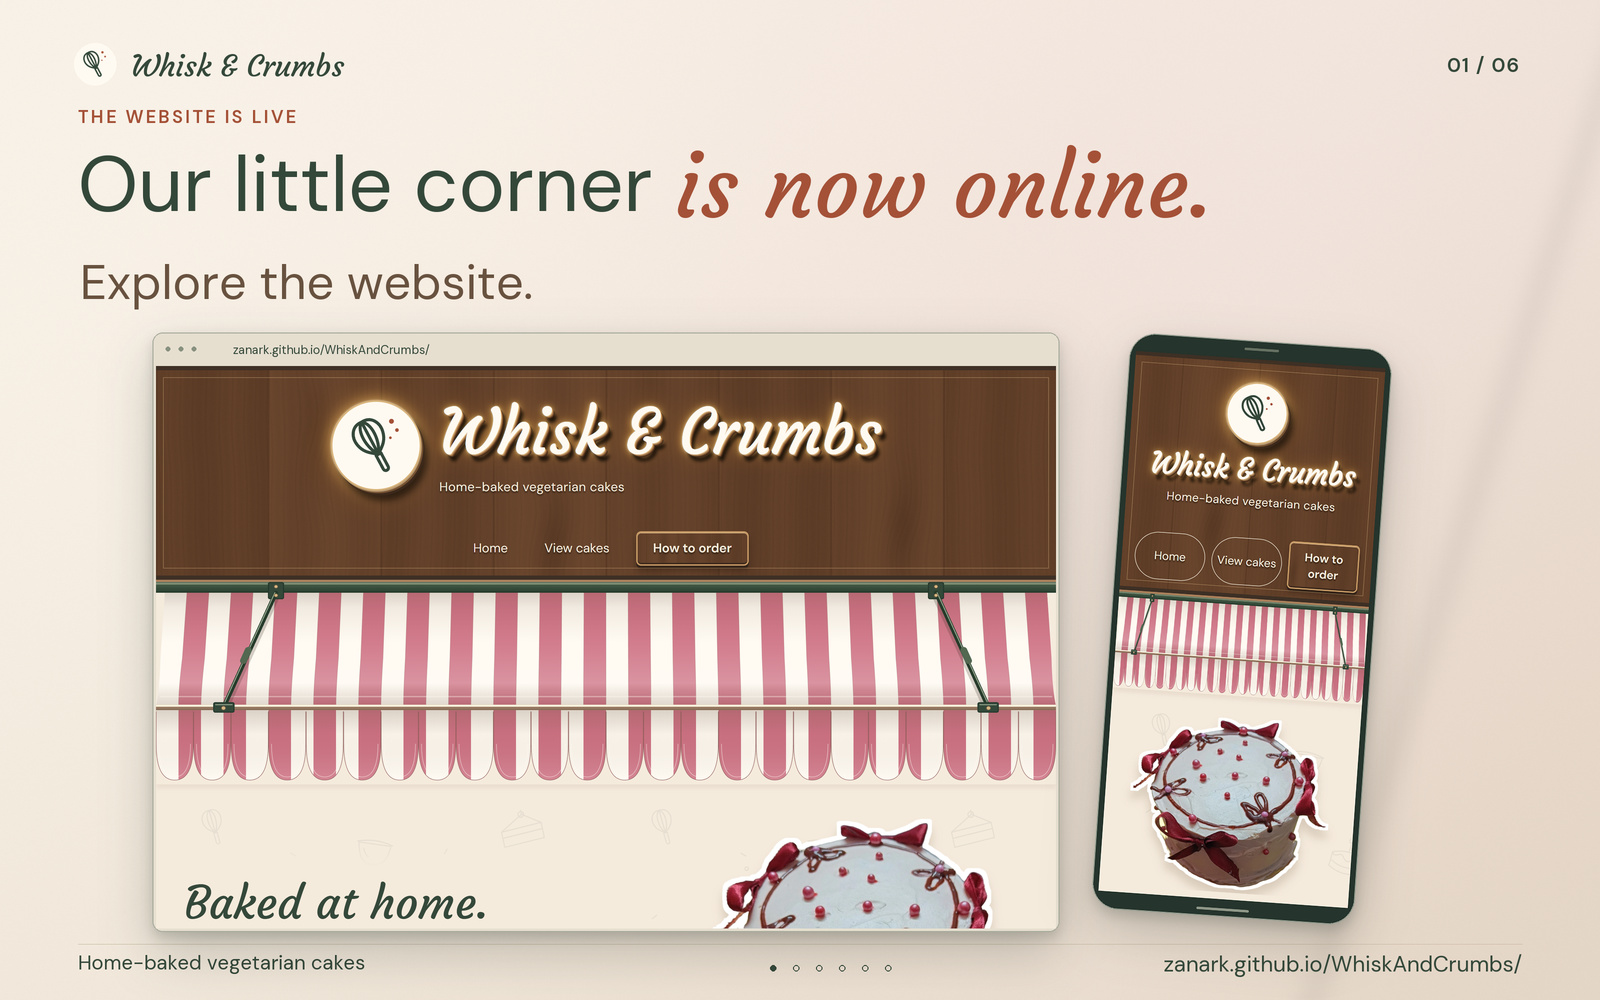
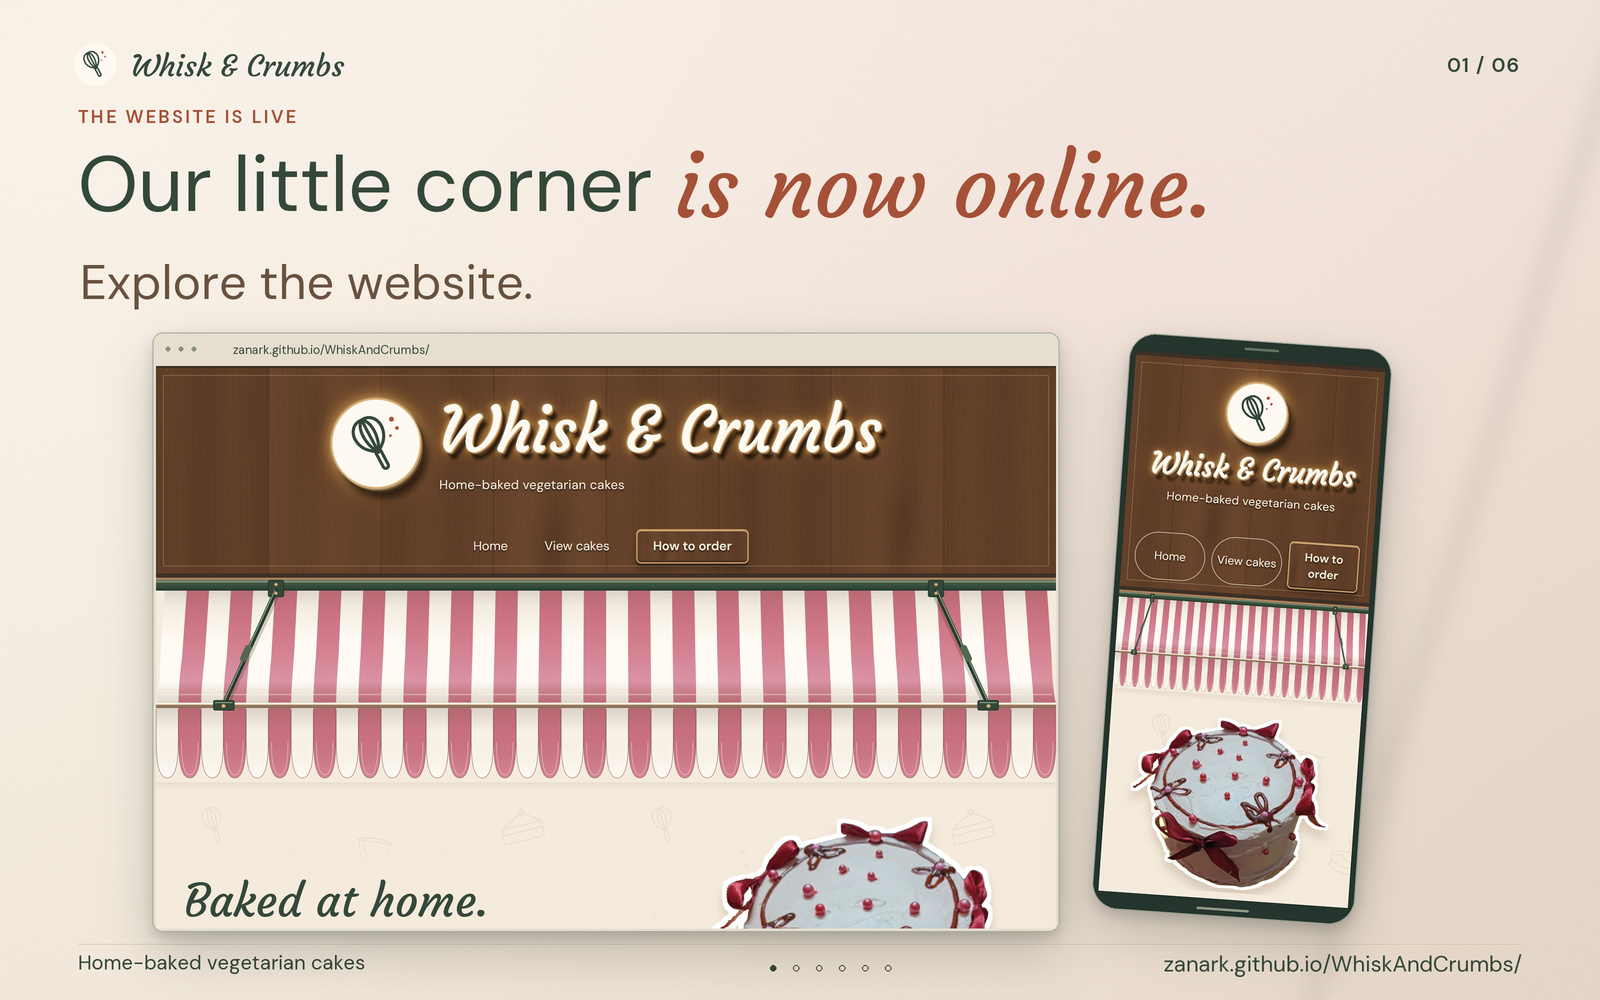
Align each awning scallop with its matching stripe
Use one derived 30px width for forty colour stripes, curved flaps and hem stitching. Preserve the canopy depth, supports, camera and cloth behavior; refresh only the affected showcase images and public descriptions.

Copilot-Session: 065222f9-e445-4b98-a549-e6948580c174

diff --git a/site/index.html b/site/index.html
@@ -22,32 +22,32 @@
   <link rel="icon" href="assets/favicon.svg" type="image/svg+xml" sizes="any">
   <link rel="apple-touch-icon" href="assets/apple-touch-icon.png" sizes="180x180">
   <link rel="preload" href="assets/fonts/courgette-regular.ttf" as="font" type="font/ttf" crossorigin>
-  <link rel="stylesheet" href="styles.css?v=0fe20a62bf44">
-  <link rel="stylesheet" href="entrance-shop.css?v=0fe20a62bf44">
-  <link rel="stylesheet" href="cozy-bakery.css?v=0fe20a62bf44">
-  <link rel="stylesheet" href="readability.css?v=0fe20a62bf44">
-  <link rel="modulepreload" href="entrance.mjs?v=0fe20a62bf44">
-  <link rel="modulepreload" href="bell.mjs?v=0fe20a62bf44">
-  <link rel="modulepreload" href="notebooks.mjs?v=0fe20a62bf44">
-  <script type="module" src="main.mjs?v=0fe20a62bf44"></script>
+  <link rel="stylesheet" href="styles.css?v=5f9daa8460ce">
+  <link rel="stylesheet" href="entrance-shop.css?v=5f9daa8460ce">
+  <link rel="stylesheet" href="cozy-bakery.css?v=5f9daa8460ce">
+  <link rel="stylesheet" href="readability.css?v=5f9daa8460ce">
+  <link rel="modulepreload" href="entrance.mjs?v=5f9daa8460ce">
+  <link rel="modulepreload" href="bell.mjs?v=5f9daa8460ce">
+  <link rel="modulepreload" href="notebooks.mjs?v=5f9daa8460ce">
+  <script type="module" src="main.mjs?v=5f9daa8460ce"></script>
 </head>
 <body>
   <a class="skip-link" href="#main">Skip to cakes and ordering</a>
   <div id="bakery-entrance" class="bakery-entrance" data-state="pending" data-audio="waiting">
     <div class="entrance-art" aria-hidden="true">
       <div class="entrance-backdrop"></div>
-      <div class="entrance-shop" style="--facade-plaster:url('assets/bakery-facade-plaster.webp?v=0fe20a62bf44');--sign-wood:url('assets/bakery-sign-wood.webp?v=0fe20a62bf44')">
+      <div class="entrance-shop" style="--facade-plaster:url('assets/bakery-facade-plaster.webp?v=5f9daa8460ce');--sign-wood:url('assets/bakery-sign-wood.webp?v=5f9daa8460ce')">
         <div class="entrance-masonry"></div>
         <picture class="entrance-upper-storey">
-          <source media="(max-width: 600px)" srcset="assets/bakery-facade-upper-mobile.svg?v=0fe20a62bf44">
-          <img src="assets/bakery-facade-upper.svg?v=0fe20a62bf44" width="1200" height="360" alt="" decoding="async">
+          <source media="(max-width: 600px)" srcset="assets/bakery-facade-upper-mobile.svg?v=5f9daa8460ce">
+          <img src="assets/bakery-facade-upper.svg?v=5f9daa8460ce" width="1200" height="360" alt="" decoding="async">
         </picture>
         <div class="entrance-sign" data-brand="Whisk &amp; Crumbs">
           <img class="entrance-sign-mark" src="assets/whisk-and-crumbs-mark.svg" width="128" height="128" alt="">
           <span class="entrance-sign-copy"><span class="entrance-wordmark">Whisk &amp; Crumbs</span><span class="entrance-descriptor">Home-baked vegetarian cakes</span></span>
         </div>
         <span class="entrance-cornice"></span>
-        <div class="entrance-awning"><img src="assets/bakery-awning.svg?v=0fe20a62bf44" width="1200" height="300" alt="" decoding="async"><span class="awning-supports" style="background-image:url('assets/bakery-awning-supports.svg?v=0fe20a62bf44')"></span></div>
+        <div class="entrance-awning"><img src="assets/bakery-awning.svg?v=5f9daa8460ce" width="1200" height="300" alt="" decoding="async"><span class="awning-supports" style="background-image:url('assets/bakery-awning-supports.svg?v=5f9daa8460ce')"></span></div>
         <span class="entrance-pier entrance-pier-left"></span><span class="entrance-pier entrance-pier-right"></span>
         <div class="entrance-doorway">
           <div class="entrance-bell-mount"></div>
@@ -61,9 +61,9 @@
           <div class="entrance-doorframe">
             <div class="entrance-room">
               <picture class="entrance-room-poster">
-                <source media="(max-aspect-ratio: 4/5)" srcset="assets/bakery-interior-portrait.webp?v=0fe20a62bf44">
-                <source media="(max-height: 600px)" srcset="assets/bakery-interior-short.webp?v=0fe20a62bf44">
-                <img src="assets/bakery-interior-wide.webp?v=0fe20a62bf44" width="1600" height="1000" alt="" decoding="async">
+                <source media="(max-aspect-ratio: 4/5)" srcset="assets/bakery-interior-portrait.webp?v=5f9daa8460ce">
+                <source media="(max-height: 600px)" srcset="assets/bakery-interior-short.webp?v=5f9daa8460ce">
+                <img src="assets/bakery-interior-wide.webp?v=5f9daa8460ce" width="1600" height="1000" alt="" decoding="async">
               </picture>
             </div>
             <div class="entrance-fixed-bay entrance-fixed-bay-left"><span class="entrance-display-glass"></span><span class="entrance-bay-panel"></span></div>
@@ -93,7 +93,7 @@
         </div>
         <span class="entrance-threshold"></span>
         <span class="entrance-step"></span>
-        <img class="entrance-pavement" src="assets/bakery-facade-ground.svg?v=0fe20a62bf44" width="1200" height="140" alt="" decoding="async">
+        <img class="entrance-pavement" src="assets/bakery-facade-ground.svg?v=5f9daa8460ce" width="1200" height="140" alt="" decoding="async">
       </div>
     </div>
     <a id="entrance-enter" class="entrance-enter" href="#home" aria-label="Open the bakery doors and enter">
@@ -107,7 +107,7 @@
   </div>
   <noscript><style>.bakery-entrance { display: none !important; }</style></noscript>
   <header class="site-header">
-    <div class="shop-sign" style="--sign-wood:url('assets/bakery-sign-wood.webp?v=0fe20a62bf44')">
+    <div class="shop-sign" style="--sign-wood:url('assets/bakery-sign-wood.webp?v=5f9daa8460ce')">
       <div class="container header-inner">
         <a class="brand" href="#home" aria-label="Whisk &amp; Crumbs - home">
           <img src="assets/whisk-and-crumbs-mark.svg" width="128" height="128" alt="">
@@ -121,7 +121,7 @@
       </nav>
     </div>
   </header>
-  <div class="site-awning" aria-hidden="true"><img src="assets/bakery-awning.svg?v=0fe20a62bf44" width="1200" height="300" alt="" decoding="async"><span class="awning-supports" style="background-image:url('assets/bakery-awning-supports.svg?v=0fe20a62bf44')"></span></div>
+  <div class="site-awning" aria-hidden="true"><img src="assets/bakery-awning.svg?v=5f9daa8460ce" width="1200" height="300" alt="" decoding="async"><span class="awning-supports" style="background-image:url('assets/bakery-awning-supports.svg?v=5f9daa8460ce')"></span></div>
 
   <main id="main" tabindex="-1">
     <section class="hero-section" id="home" aria-labelledby="hero-title">
@@ -724,7 +724,7 @@
         </div>
       </div>
     </section>
-    <div class="bakery-shelf" aria-hidden="true"><img src="assets/bakery-shelf.svg?v=0fe20a62bf44" width="960" height="120" alt="" loading="lazy" decoding="async"></div>
+    <div class="bakery-shelf" aria-hidden="true"><img src="assets/bakery-shelf.svg?v=5f9daa8460ce" width="960" height="120" alt="" loading="lazy" decoding="async"></div>
   </main>
 
   <footer class="container site-footer">

diff --git a/README.md b/README.md
@@ -1,6 +1,6 @@
-[![Our little corner is now online: refreshed editorial artwork with larger supporting copy and genuine current desktop and mobile views of the wooden sign, navigation and supported rose-striped canopy.](site/assets/showcase/01-welcome.jpg?v=0737801810cc)](https://zanark.github.io/WhiskAndCrumbs/)
+[![Our little corner is now online: current desktop and mobile views of the wooden sign and supported rose canopy, with one matching curved hem for each stripe.](site/assets/showcase/01-welcome.jpg?v=c9ba90c2bd82)](https://zanark.github.io/WhiskAndCrumbs/)
 
-[![Come on in: the illustrated bakery entrance on desktop and mobile, with a level, pulled-back interior view, complete building, supported rose canopy and optional Phone tilt control.](site/assets/showcase/02-bakery-entrance.jpg?v=23d48d586cfb)](https://zanark.github.io/WhiskAndCrumbs/)
+[![Come on in: the illustrated bakery entrance on desktop and mobile, with a level interior view and evenly aligned rose-and-cream awning stripes and curved ends.](site/assets/showcase/02-bakery-entrance.jpg?v=e291b25949b6)](https://zanark.github.io/WhiskAndCrumbs/)
 
 [![A little care in every layer: current desktop story and mobile recipe-note views with larger readable supporting copy, cream editorial typography and slim device framing.](site/assets/showcase/03-our-story.jpg?v=dbf9a8d31a6a)](https://zanark.github.io/WhiskAndCrumbs/#story)
 

diff --git a/ABOUT.md b/ABOUT.md
@@ -38,8 +38,9 @@ A small cream-and-green **We are OPEN** plaque hangs behind the right door's
 glass, with a small cord and brass details. It moves with the door, not the room camera.
 It is a welcoming illustration, not a business-hours notice.
 A longer sloping canopy with forty narrower reddish-pink and cream stripes frames
-the entrance. Its deep scalloped edge is retained. Visible bolted wall brackets
-and angled tension rods support the projecting front bar; they stay rigid while
+the entrance. Each stripe ends in one matching curved flap of exactly the same
+width, retaining the deep scalloped edge. Visible bolted wall brackets and
+angled tension rods support the projecting front bar; they stay rigid while
 the cloth moves.
 Wide layouts have fixed display bays beside the paired doors. Narrow layouts keep
 the doorway and a separately composed upper floor, rather than squeezing all the
